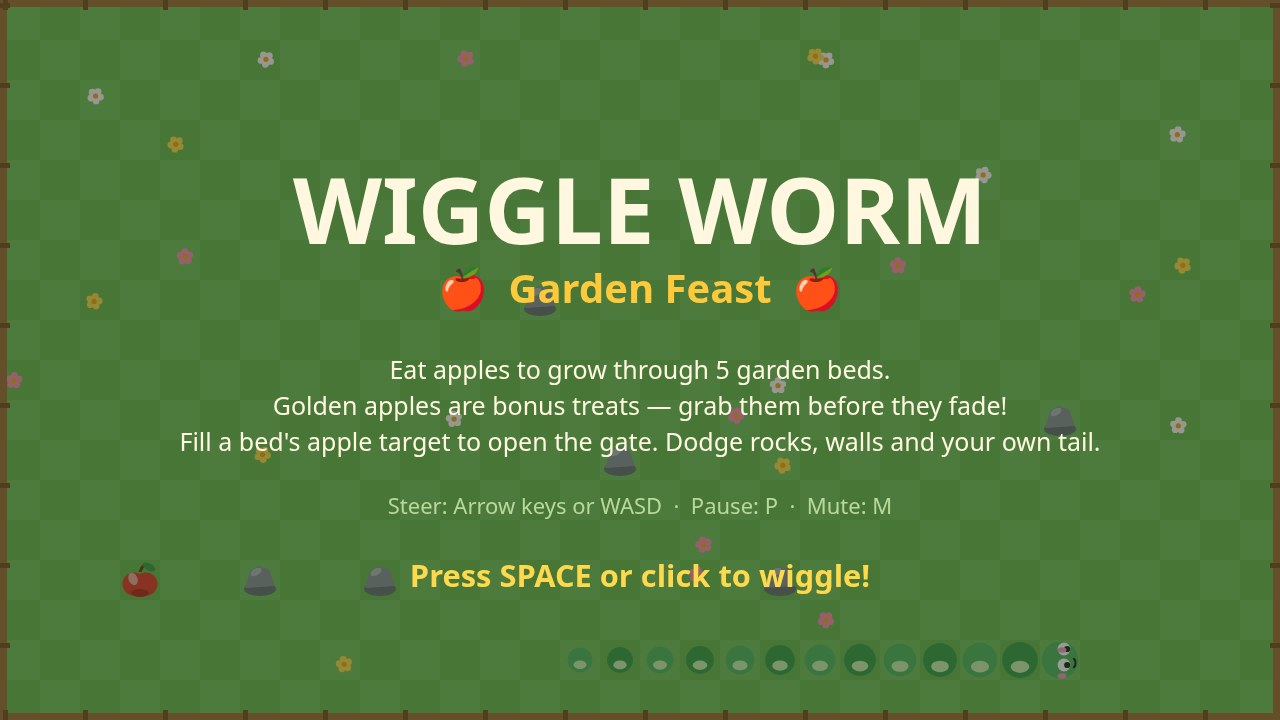
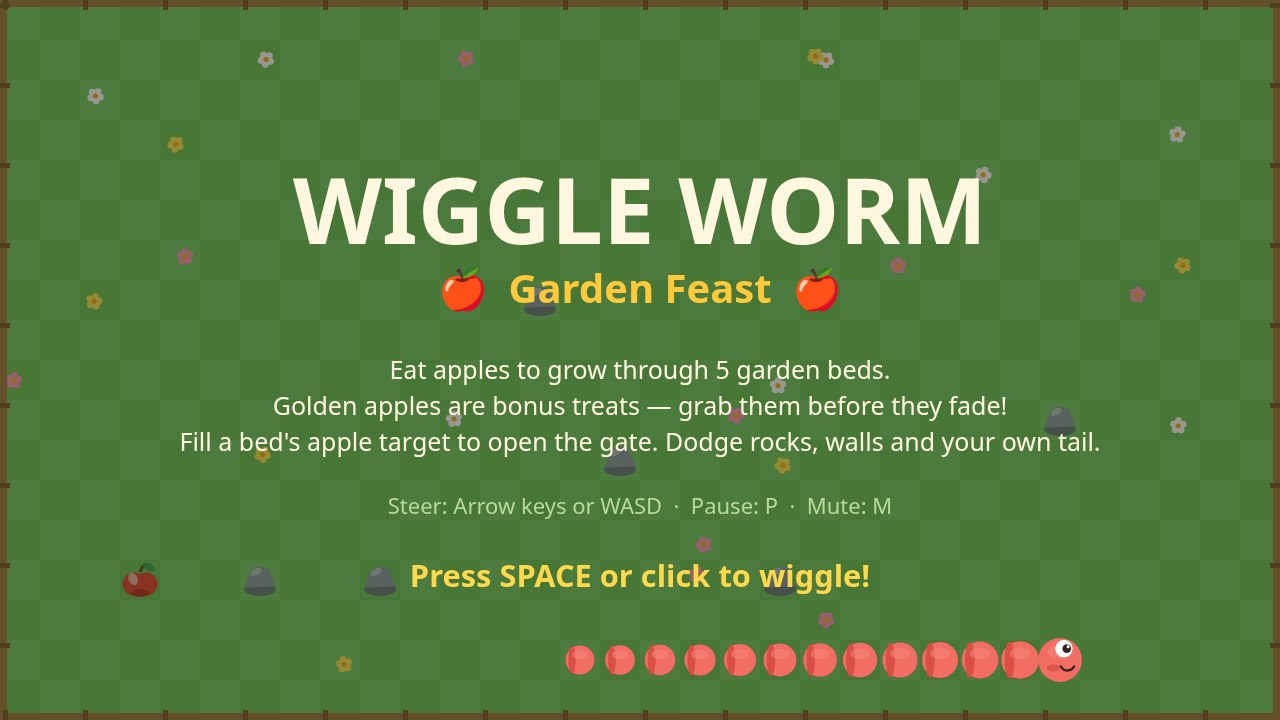
Restyle the worm as the coral-pink reference earthworm
Coral-pink body (#f26d64) with a lighter top sheen, darker red bands
(#d94f45) at every segment joint, a slightly larger rounded head with
one big eye on top, a friendly smile and blush — redrawn in canvas in
the reference's style, for both the in-game worm and the title mascot
(the title redraws the mascot over its dim so the pink stays true).
Screenshots re-rendered; death bursts recoloured to match.

Changed region(s): [[0.4375, 0.8861, 0.8438, 0.9472]]

diff --git a/game/src/render.js b/game/src/render.js
@@ -1,8 +1,9 @@
 // Wiggle Worm's world renderer: the garden bed (checkerboard grass, a
 // wooden fence, flowers), rocks, apples, the golden gate, and the worm
-// itself — drawn tail to head as overlapping circles sliding smoothly
-// between grid ticks, with a face on the head: eyes that look where it is
-// going, a smile, and blush. Pure canvas, no assets.
+// itself — drawn tail to head as overlapping coral-pink circles sliding
+// smoothly between grid ticks, a darker red band at every segment joint,
+// a lighter sheen along the top, and a face on the head: one big eye
+// riding on top, a friendly smile, and blush. Pure canvas, no assets.
 
 import { CELL, COLORS, COLS, ROWS } from './config.js';
 import { segmentPixel } from './worm.js';
@@ -137,21 +138,45 @@ function drawGate(ctx, state) {
 export function drawWorm(ctx, state, alpha) {
   const worm = state.worm;
   const n = worm.segments.length;
+  const pts = [];
+  for (let i = 0; i < n; i += 1) pts.push(segmentPixel(worm, i, alpha));
   // Tail first so the head sits on top.
   for (let i = n - 1; i >= 0; i -= 1) {
-    const { x, y } = segmentPixel(worm, i, alpha);
+    const { x, y } = pts[i];
     const frac = n <= 1 ? 0 : i / (n - 1); // 0 head → 1 tail
-    const r = CELL * (0.48 - 0.12 * frac);
-    ctx.fillStyle = i % 2 === 0 ? COLORS.wormB : COLORS.wormA;
+    const r = CELL * (0.48 - 0.12 * frac) * (i === 0 ? 1.14 : 1);
+    // This segment's local heading, from its neighbours, so the band can
+    // sit across the body at the joint like a ring on an earthworm.
+    const ahead = pts[Math.max(0, i - 1)];
+    const behind = pts[Math.min(n - 1, i + 1)];
+    let dx = ahead.x - behind.x;
+    let dy = ahead.y - behind.y;
+    const len = Math.hypot(dx, dy) || 1;
+    dx /= len;
+    dy /= len;
+    ctx.fillStyle = COLORS.wormA;
     ctx.beginPath();
     ctx.arc(x, y, r, 0, Math.PI * 2);
     ctx.fill();
     if (i > 0) {
-      ctx.fillStyle = COLORS.wormBelly;
+      // The darker red band at this segment's tail-side joint.
+      ctx.save();
+      ctx.translate(x - dx * r * 0.55, y - dy * r * 0.55);
+      ctx.rotate(Math.atan2(dy, dx));
+      ctx.fillStyle = COLORS.wormBand;
       ctx.beginPath();
-      ctx.ellipse(x, y + r * 0.38, r * 0.52, r * 0.34, 0, 0, Math.PI * 2);
+      ctx.ellipse(0, 0, r * 0.26, r * 0.97, 0, 0, Math.PI * 2);
       ctx.fill();
+      ctx.restore();
     }
+    // A lighter coral sheen along the top, the reference's flat shading.
+    ctx.save();
+    ctx.globalAlpha = 0.5;
+    ctx.fillStyle = COLORS.wormB;
+    ctx.beginPath();
+    ctx.ellipse(x, y - r * 0.36, r * 0.56, r * 0.32, 0, 0, Math.PI * 2);
+    ctx.fill();
+    ctx.restore();
   }
   drawFace(ctx, state, alpha);
 }
@@ -160,37 +185,37 @@ function drawFace(ctx, state, alpha) {
   const worm = state.worm;
   const { x, y } = segmentPixel(worm, 0, alpha);
   const dir = worm.dir;
-  const px = -dir.y; // perpendicular
-  const py = dir.x;
-  const look = 3.2;
-  for (const side of [-1, 1]) {
-    const ex = x + px * side * 8 + dir.x * 4;
-    const ey = y + py * side * 8 + dir.y * 4 - 3;
-    ctx.fillStyle = '#ffffff';
-    ctx.beginPath();
-    ctx.arc(ex, ey, 6.4, 0, Math.PI * 2);
-    ctx.fill();
-    ctx.fillStyle = COLORS.ink;
-    ctx.beginPath();
-    ctx.arc(ex + dir.x * look, ey + dir.y * look, 3.1, 0, Math.PI * 2);
-    ctx.fill();
-  }
-  // Smile, rotated to the heading.
+  const r = CELL * 0.48 * 1.14; // the head's radius, as drawn in drawWorm
+  ctx.save();
+  ctx.translate(x, y);
+  ctx.rotate(Math.atan2(dir.y, dir.x));
+  // One big eye riding on top of the head: a white ball with a dark pupil
+  // looking the way the worm wiggles, and a tiny glint.
+  ctx.fillStyle = '#ffffff';
+  ctx.beginPath();
+  ctx.arc(r * 0.18, -r * 0.52, r * 0.40, 0, Math.PI * 2);
+  ctx.fill();
+  ctx.fillStyle = COLORS.ink;
+  ctx.beginPath();
+  ctx.arc(r * 0.31, -r * 0.52, r * 0.20, 0, Math.PI * 2);
+  ctx.fill();
+  ctx.fillStyle = '#ffffff';
+  ctx.beginPath();
+  ctx.arc(r * 0.37, -r * 0.61, r * 0.07, 0, Math.PI * 2);
+  ctx.fill();
+  // The friendly smile, low on the snout.
   ctx.strokeStyle = COLORS.ink;
-  ctx.lineWidth = 2.2;
+  ctx.lineWidth = 2.4;
   ctx.lineCap = 'round';
   ctx.beginPath();
-  const mx = x + dir.x * 9;
-  const my = y + dir.y * 9 + 3;
-  ctx.arc(mx, my, 6.5, Math.atan2(dir.y, dir.x) - 0.7 + Math.PI / 2 * 0, Math.atan2(dir.y, dir.x) + 0.7);
+  ctx.arc(r * 0.34, r * 0.14, r * 0.34, Math.PI * 0.15, Math.PI * 0.85);
   ctx.stroke();
-  // Blush.
+  // Blush on the cheek.
   ctx.fillStyle = COLORS.blush;
-  for (const side of [-1, 1]) {
-    ctx.beginPath();
-    ctx.ellipse(x + px * side * 13 + dir.x * 2, y + py * side * 13 + dir.y * 2 + 3, 4.4, 2.8, 0, 0, Math.PI * 2);
-    ctx.fill();
-  }
+  ctx.beginPath();
+  ctx.ellipse(-r * 0.30, r * 0.36, r * 0.30, r * 0.17, 0, 0, Math.PI * 2);
+  ctx.fill();
+  ctx.restore();
 }
 
 function drawFx(ctx, state) {

diff --git a/game/src/hud.js b/game/src/hud.js
@@ -3,6 +3,7 @@
 // level-complete, victory, defeat and pause panels. Drawn after the world.
 
 import { BEDS, COLORS, COMBO_WINDOW, VIEW_H, VIEW_W } from './config.js';
+import { drawWorm } from './render.js';
 import { SCREEN_LEVEL, SCREEN_OVER, SCREEN_PLAY, SCREEN_TITLE, SCREEN_WIN } from './world.js';
 
 const FONT = 'system-ui, -apple-system, "Segoe UI", sans-serif';
@@ -49,9 +50,11 @@ function drawBar(ctx, state) {
   if (state.audio.muted) text(ctx, 'MUTED (M)', VIEW_W - 22, 74, 15, '#b9d99a', 'right', false);
 }
 
-function drawTitle(ctx, state) {
+function drawTitle(ctx, state, alpha) {
   ctx.fillStyle = 'rgba(24, 38, 20, 0.45)';
   ctx.fillRect(0, 0, VIEW_W, VIEW_H);
+  // The mascot worm again, over the dim, in its true coral pink.
+  drawWorm(ctx, state, alpha);
   text(ctx, 'WIGGLE WORM', VIEW_W / 2, 218, 92, COLORS.cream);
   text(ctx, '🍎  Garden Feast  🍎', VIEW_W / 2, 292, 40, COLORS.golden);
   text(ctx, 'Eat apples to grow through 5 garden beds.', VIEW_W / 2, 372, 25, COLORS.cream, 'center', false);
@@ -91,9 +94,9 @@ function drawPaused(ctx) {
   text(ctx, 'Press P to keep wiggling', VIEW_W / 2, y + 142, 22, COLORS.golden, 'center', false);
 }
 
-export function drawHud(ctx, state) {
+export function drawHud(ctx, state, alpha = 1) {
   if (state.screen === SCREEN_TITLE) {
-    drawTitle(ctx, state);
+    drawTitle(ctx, state, alpha);
     return;
   }
   drawBar(ctx, state);

diff --git a/game/src/config.js b/game/src/config.js
@@ -34,10 +34,10 @@ export const COLORS = {
   grassB: '#6fb855',
   fence: '#a4713d',
   fenceDark: '#7d5527',
-  wormA: '#3f9e4d',
-  wormB: '#57b765',
-  wormBelly: '#cdeeb0',
-  blush: '#f49ac1',
+  wormA: '#f26d64',
+  wormB: '#f58a80',
+  wormBand: '#d94f45',
+  blush: 'rgba(190, 52, 44, 0.38)',
   apple: '#e33f2f',
   appleDark: '#b92a1e',
   golden: '#ffc93c',
@@ -45,6 +45,6 @@ export const COLORS = {
   rock: '#8d9299',
   rockDark: '#6e7278',
   gate: '#ffd94d',
-  ink: '#20301c',
+  ink: '#3a2320',
   cream: '#fff7e0',
 };

diff --git a/game/src/shots.js b/game/src/shots.js
@@ -131,7 +131,7 @@ export function stageShot(name, world) {
     state.screen = SCREEN_OVER;
     const head = state.worm.segments[0];
     state.fx.burst((head.x + 0.5) * 40, (head.y + 0.5) * 40, '#e33f2f', 22, 1.3);
-    state.fx.burst((head.x + 0.5) * 40, (head.y + 0.5) * 40, '#57b765', 14, 1);
+    state.fx.burst((head.x + 0.5) * 40, (head.y + 0.5) * 40, '#f26d64', 14, 1);
     state.fx.step(0.18);
     return makeFakeInput();
   }

diff --git a/game/src/world.js b/game/src/world.js
@@ -152,7 +152,7 @@ export function createWorld(audio, seed = (Math.random() * 1e9) | 0) {
     const cx = (head.x + 0.5) * 40;
     const cy = (head.y + 0.5) * 40;
     state.fx.burst(cx, cy, '#e33f2f', 26, 1.3);
-    state.fx.burst(cx, cy, '#57b765', 18, 1);
+    state.fx.burst(cx, cy, '#f26d64', 18, 1);
     state.shake = 0.55;
     audio.die();
     finishRun(false);

diff --git a/game/src/main.js b/game/src/main.js
@@ -40,7 +40,7 @@ function draw(world) {
   ctx.fillRect(0, 0, canvas.width, canvas.height);
   ctx.setTransform(dpr * scale, 0, 0, dpr * scale, dpr * offsetX, dpr * offsetY);
   drawWorld(ctx, world.state, world.moveAlpha());
-  drawHud(ctx, world.state);
+  drawHud(ctx, world.state, world.moveAlpha());
   ctx.setTransform(1, 0, 0, 1, 0, 0);
 }
 
